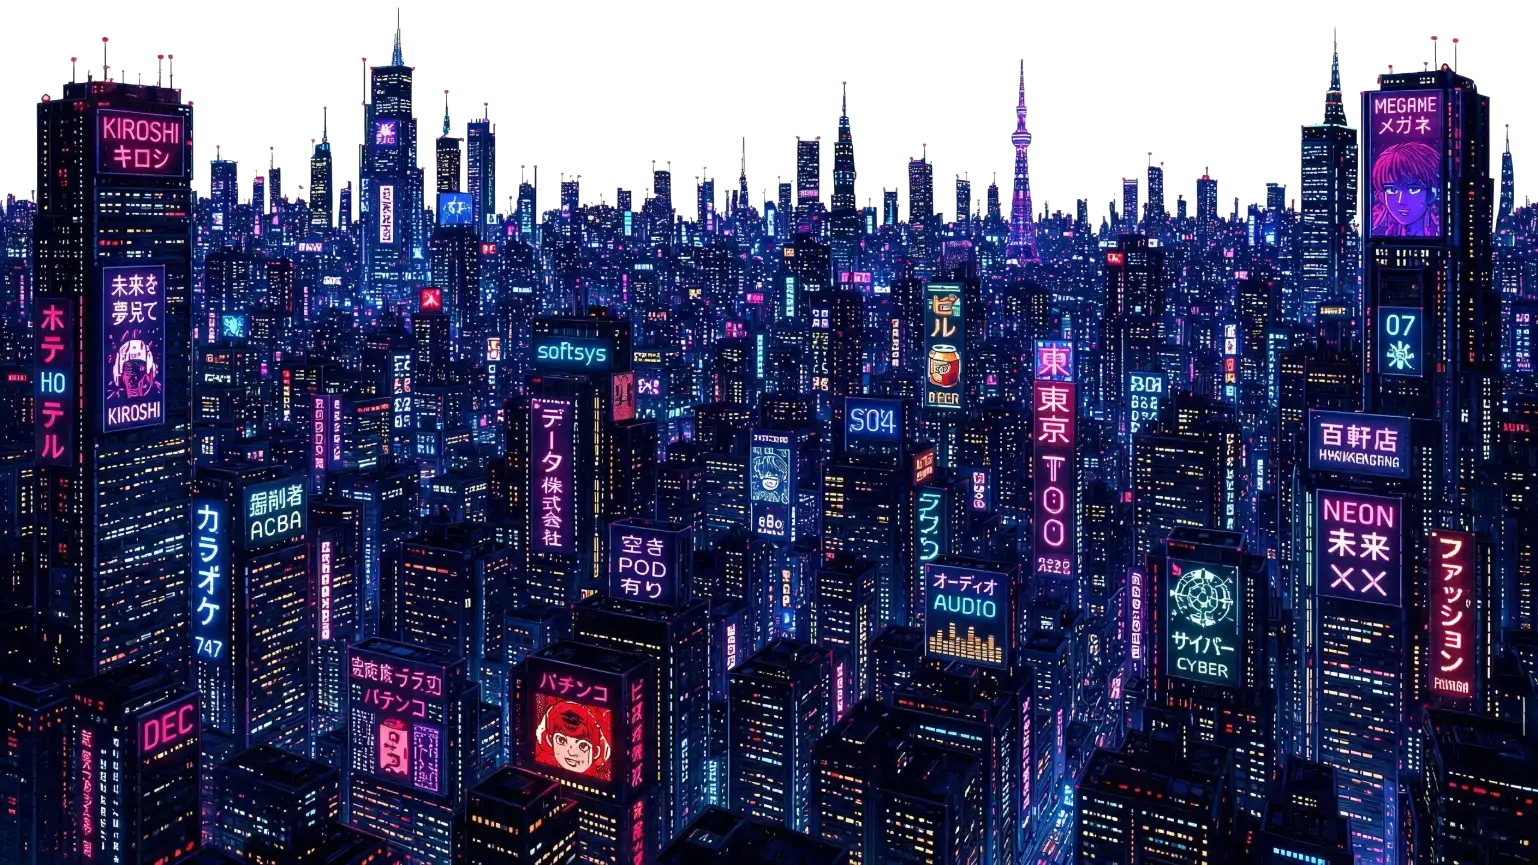
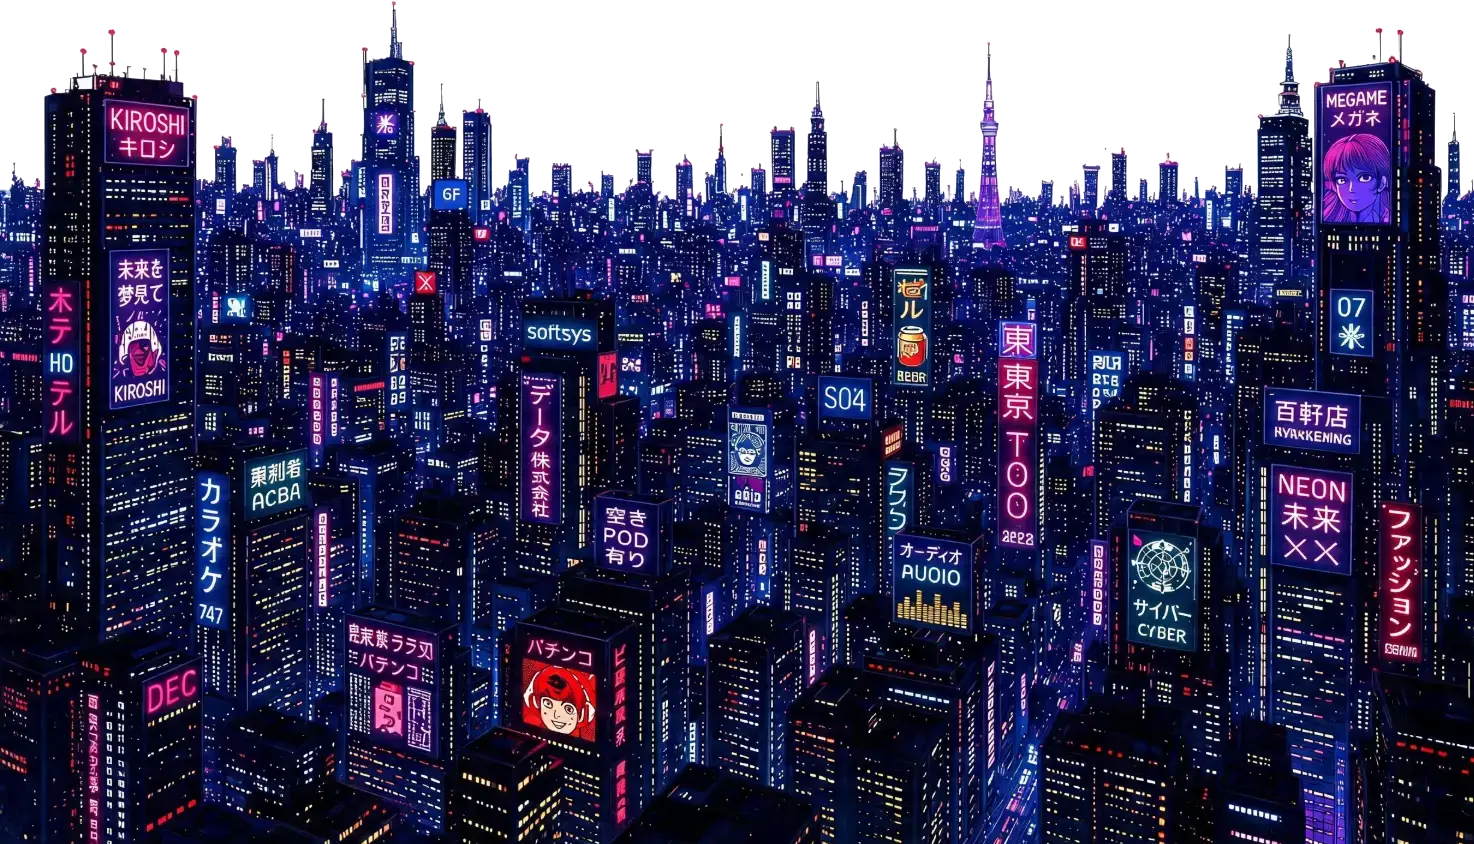
refactor(assets): update city background images for uplink scenery

diff --git a/src/components/Uplink/index.tsx b/src/components/Uplink/index.tsx
@@ -6,9 +6,9 @@ import bgUplinkDay from "../../assets/uplink-image/bg-uplink-day.webp";
 import bgUplinkSunset from "../../assets/uplink-image/bg-uplink-sunset.webp";
 import bgUplinkNight from "../../assets/uplink-image/bg-uplink-night.webp";
 
-import bgUplinkSunriseCut from "../../assets/uplink-image/bg-uplink-night-cut.webp";
-import bgUplinkDayCut from "../../assets/uplink-image/bg-uplink-night-cut.webp";
-import bgUplinkSunsetCut from "../../assets/uplink-image/bg-uplink-night-cut.webp";
+import bgUplinkSunriseCut from "../../assets/uplink-image/bg-uplink-sunrise-cut.webp";
+import bgUplinkDayCut from "../../assets/uplink-image/bg-uplink-day-cut.webp";
+import bgUplinkSunsetCut from "../../assets/uplink-image/bg-uplink-sunset-cut.webp";
 import bgUplinkNightCut from "../../assets/uplink-image/bg-uplink-night-cut.webp";
 
 // Imports das imagens da cidade
